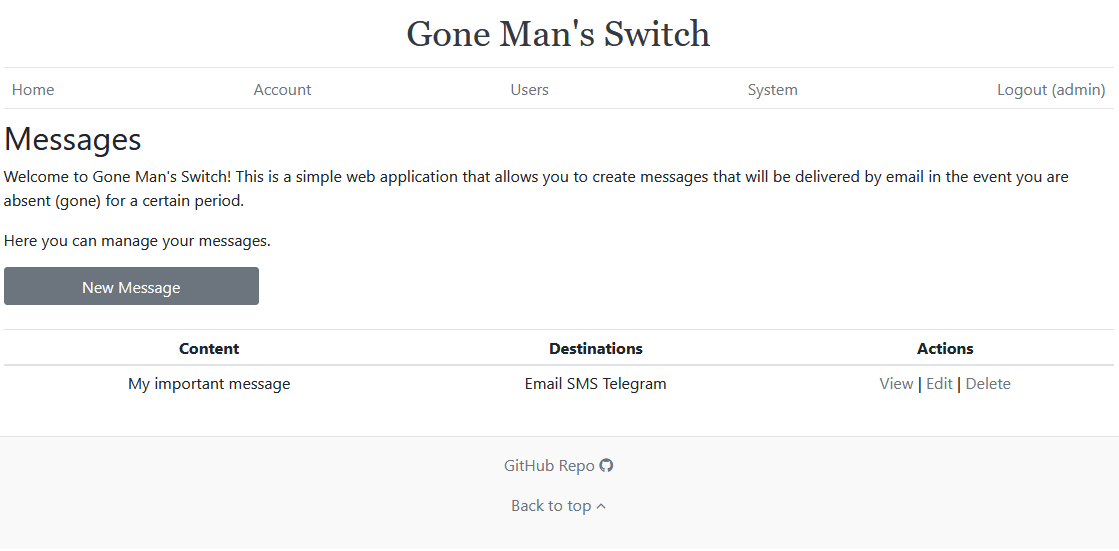
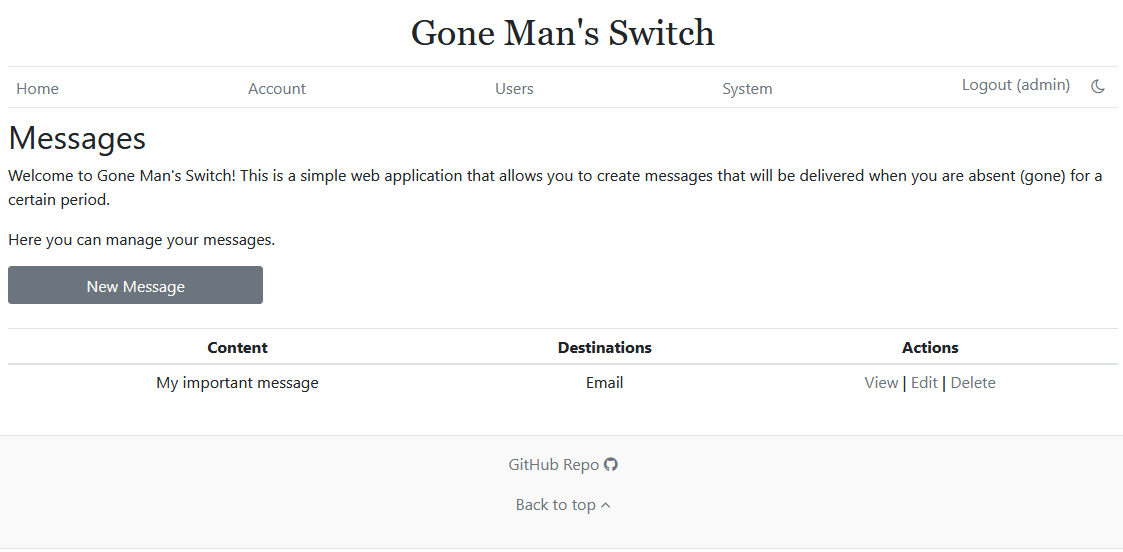
Add support for dark/light mode

diff --git a/public/stylesheets/style.css b/public/stylesheets/style.css
@@ -1,12 +1,39 @@
+:root {
+  --color: #212529;
+  --background-color: #ffffff;
+  --site-border-color: #e5e5e5;
+  --site-footer-background-color: #f9f9f9;
+  --btn-secondary-background-color: #6c757d;
+  --btn-secondary-hover-background-color: #5a6268;
+  --text-muted-color: #6c757d;
+  --form-control-color: #495057;
+  --form-control-background-color: #ffffff;
+  --table-color: #212529;
+  --toggle-theme-button-color: #000;
+  --dark-mode-moon-icon-display: block;
+  --dark-mode-sun-icon-display: none;
+  --alert-secondary-color: #383d41;
+  --alert-secondary-background-color: #e2e3e5;
+  --alert-warning-color: #856404;
+  --alert-warning-background-color: #fff3cd;
+  --alert-danger-color: #721c24;
+  --alert-danger-background-color: #f8d7da;
+  --alert-danger-border-color: #f5c6cb;;
+}
 
 .site-header {
   line-height: 1;
-  border-bottom: 1px solid #e5e5e5;
+  border-bottom: 1px solid var(--site-border-color);
+}
+
+body {
+  background-color: var(--background-color);
+  color: var(--color);
 }
 
 .site-menu {
   line-height: 1;
-  border-bottom: 1px solid #e5e5e5;
+  border-bottom: 1px solid var(--site-border-color);
 }
 
 .site-header-logo {
@@ -16,10 +43,10 @@
 
 .site-footer {
   padding: 1rem 0;
-  color: #999;
   text-align: center;
-  background-color: #f9f9f9;
-  border-top: .05rem solid #e5e5e5;
+  background-color: var(--site-footer-background-color);
+  border-top: .05rem solid var(--site-border-color);
+  border-bottom: .05rem solid var(--site-border-color);
 }
 
 .login-form {
@@ -40,4 +67,90 @@ main.container {
 
 [data-toggle="collapse"].collapsed .fa:after {
   content: "\f13a";
+}
+
+.btn-secondary {
+  background-color: var(--btn-secondary-background-color)
+}
+
+.btn-secondary:hover {
+  background-color: var(--btn-secondary-hover-background-color)
+}
+
+.text-muted {
+  color: var(--text-muted-color) !important;
+}
+
+.text-dark {
+  color: var(--color) !important;
+}
+
+a.text-dark:hover {
+  color: var(--color) !important;
+}
+
+.form-control {
+  color: var(--form-control-color);
+  background-color: var(--form-control-background-color) !important;
+}
+
+.form-control:focus {
+  color: var(--form-control-color);
+  background-color: var(--form-control-background-color) !important;
+}
+
+.table {
+  color: var(--table-color);
+}
+
+.dark-mode-button {
+  background-color: transparent;
+  color: var(--toggle-theme-button-color);
+}
+
+.dark-mode-button > .fa-moon-o {
+  display: var(--dark-mode-moon-icon-display);
+}
+
+.dark-mode-button > .fa-sun-o {
+  display: var(--dark-mode-sun-icon-display);
+}
+
+.alert-secondary {
+  color: var(--alert-secondary-color);
+  background-color: var(--alert-secondary-background-color);
+}
+
+.alert-warning {
+  color: var(--alert-warning-color);
+  background-color: var(--alert-warning-background-color);
+}
+
+.alert-danger {
+  color: var(--alert-danger-color);
+  background-color: var(--alert-danger-background-color);
+  border-color: var(--alert-danger-border-color);
+}
+
+.dark-mode {
+  --background-color: #1b1b1b;
+  --site-border-color: #858585;
+  --site-footer-background-color: #343434;
+  --btn-secondary-background-color: #4e4e4e;
+  --btn-secondary-hover-background-color: #858585;
+  --color: #ffffff;
+  --text-muted-color: #cdcdcd;
+  --form-control-color: #ffffff;
+  --form-control-background-color: #343434;
+  --table-color: #ffffff;
+  --toggle-theme-button-color: #ffffff;
+  --dark-mode-moon-icon-display: 'none';
+  --dark-mode-sun-icon-display: 'block';
+  --alert-secondary-color: #cdcdcd;
+  --alert-secondary-background-color: #343434;
+  --alert-warning-color: #cdcdcd;
+  --alert-warning-background-color: #322f16;
+  --alert-danger-color: #cdcdcd;
+  --alert-danger-background-color: #461e25;
+  --alert-danger-border-color: #ff707f;
 }

diff --git a/public/javascripts/darkMode.js b/public/javascripts/darkMode.js
@@ -1,0 +1,64 @@
+function getSystemColorScheme() {
+  return window.matchMedia && window.matchMedia('(prefers-color-scheme: dark)').matches ? 'dark' : 'light';
+}
+
+function saveUserPreference(preference) {
+  localStorage.setItem('color-scheme', preference);
+}
+ 
+function loadUserPreference() {
+  return localStorage.getItem('color-scheme');
+}
+
+function toggleDarkMode(enableDarkMode) {
+  document.documentElement.classList.toggle("dark-mode", enableDarkMode);
+  if (enableDarkMode) {
+    document.getElementById('toggle-darkmode-moon-icon').style.display = 'none';
+    document.getElementById('toggle-darkmode-sun-icon').style.display = 'block';
+  } else {
+    document.getElementById('toggle-darkmode-moon-icon').style.display = 'block';
+    document.getElementById('toggle-darkmode-sun-icon').style.display = 'none';
+  }
+}
+
+function toggleElementVisibility(element) {
+  if (element.style.display === "none") {
+    element.style.display = "block";
+  } else {
+    element.style.display = "none";
+  }
+}
+
+function initializeDarkMode() {
+  const userPreference = loadUserPreference();
+ 
+  if (userPreference) {
+    toggleDarkMode(userPreference === 'dark');
+  } else {
+    const systemColorScheme = getSystemColorScheme();
+    toggleDarkMode(systemColorScheme === 'dark');
+  }
+}
+
+function handleDarkModeToggle() {
+  const currentPreference = loadUserPreference() || getSystemColorScheme();
+  const newPreference = currentPreference === 'dark' ? 'light' : 'dark';
+ 
+  toggleDarkMode(newPreference === 'dark');
+  saveUserPreference(newPreference);
+}
+
+
+function handleSystemColorSchemeChange(event) {
+  if (!loadUserPreference()) {
+    toggleDarkMode(event.matches);
+  }
+}
+
+function onDOMContentLoaded() {
+  initializeDarkMode();
+  window.matchMedia('(prefers-color-scheme: dark)').addEventListener('change', handleSystemColorSchemeChange);
+  document.getElementById('toggle-darkmode').addEventListener('click', handleDarkModeToggle);
+}
+ 
+document.addEventListener('DOMContentLoaded', onDOMContentLoaded);

diff --git a/middlewares/auth.js b/middlewares/auth.js
@@ -25,7 +25,7 @@ const requireAdminRole = async (req, res, next) => {
   } else if (req.session.role == 'ADMIN') {
     next();
   } else {
-    res.status(401).render('error', { title: 'Unauthorized', message: 'Only admin users have acecss to this resource' });
+    res.status(401).render('error', { title: 'Unauthorized', message: 'Only ADMIN users have access to this resource' });
   }
 }
 
